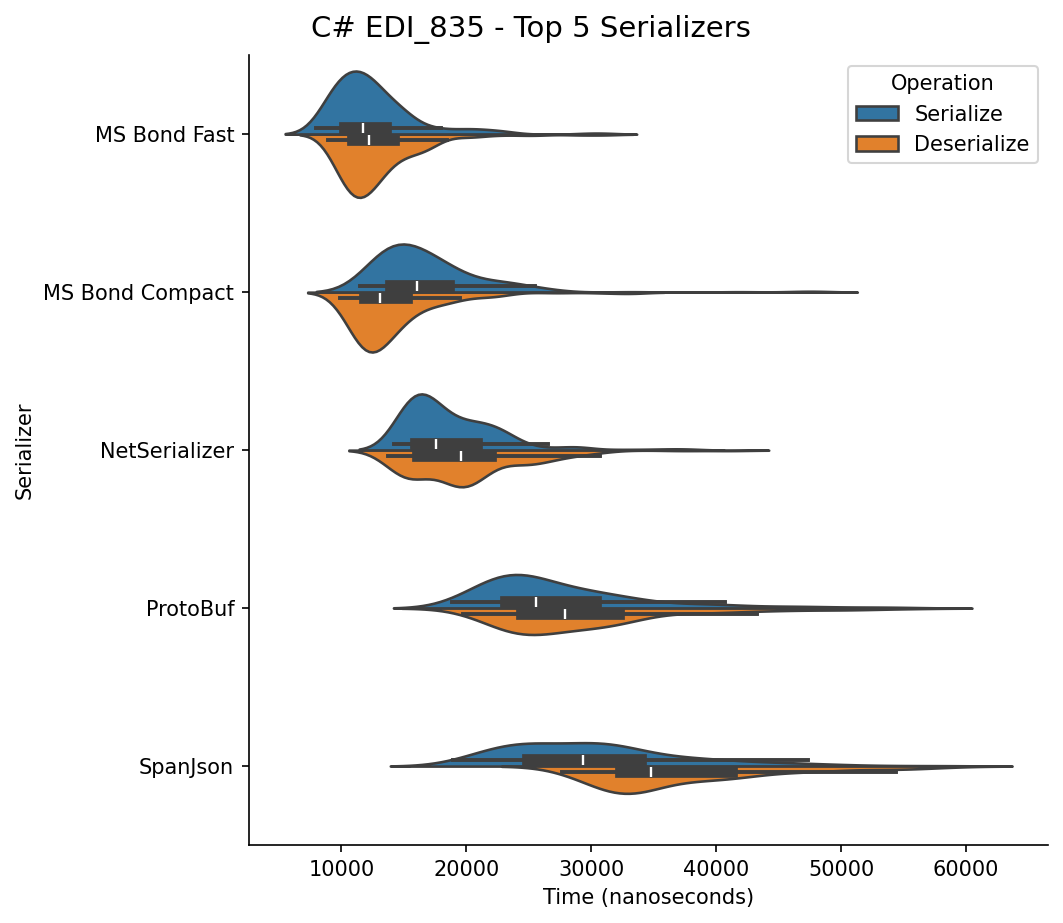
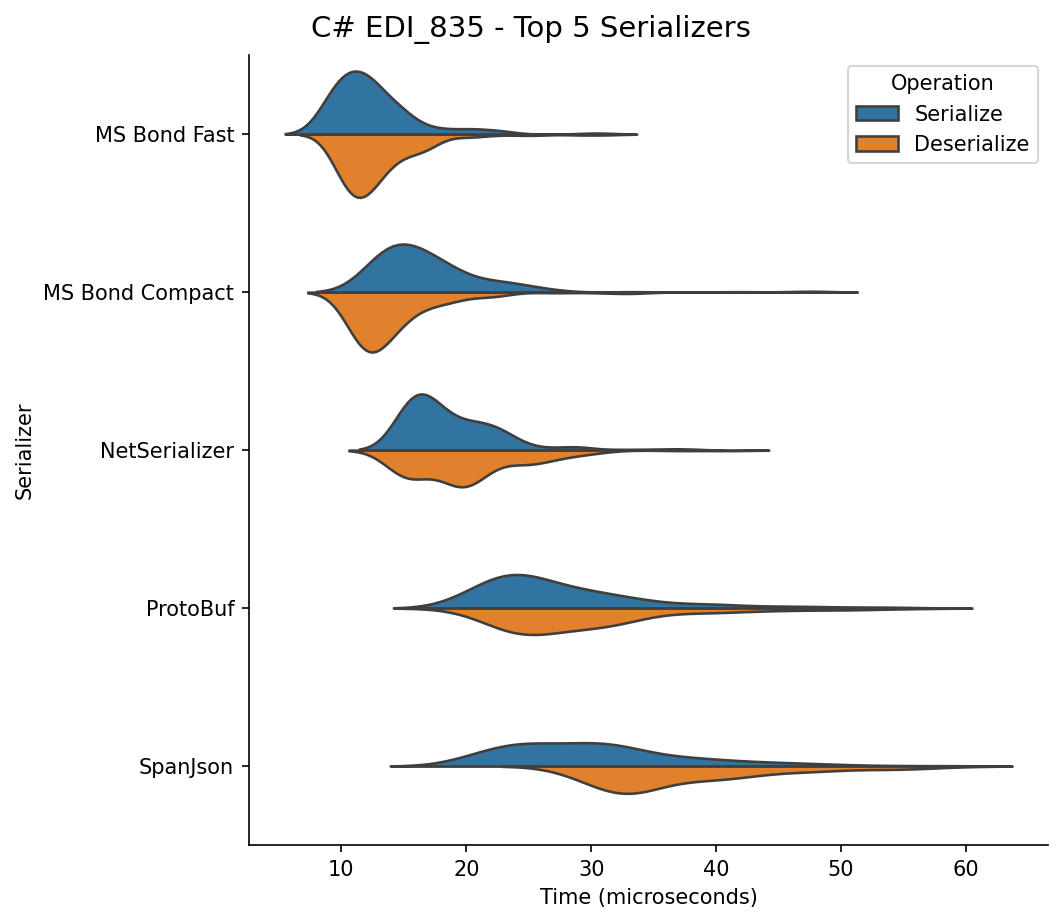
fixes

diff --git a/analysis/reports/dashboard/index.html b/analysis/reports/dashboard/index.html
@@ -144,7 +144,7 @@
     <div class="header">
         <h1>Serializer Benchmark Dashboard</h1>
         <p>Cross-language serialization performance comparison</p>
-        <p>Generated: 2026-04-27 21:21:57</p>
+        <p>Generated: 2026-04-28 09:51:52</p>
     </div>
 
     <div class="container">
@@ -1025,7 +1025,7 @@
     <div class="container">
         <div class="card">
             <h2>C# Distribution Analysis (Violin Plots)</h2>
-            <p style="margin-bottom:1rem;">Top 5 serializers by mean time for each data type. Split violins show serialize (left) vs deserialize (right) time distributions.</p>
+            <p style="margin-bottom:1rem;">Top 5 serializers by mean time for each data type. Split violins show serialize (top) vs deserialize (bottom) time distributions.</p>
             <div class="grid" style="grid-template-columns: repeat(auto-fit, minmax(600px, 1fr));">
                 <div class="card" style="padding: 1rem;">
                     <h4>EDI_835</h4>
@@ -1062,7 +1062,7 @@
     <div class="container">
         <div class="card">
             <h2>Python Distribution Analysis (Violin Plots)</h2>
-            <p style="margin-bottom:1rem;">Top 5 serializers by mean time for each data type. Split violins show serialize (left) vs deserialize (right) time distributions.</p>
+            <p style="margin-bottom:1rem;">Top 5 serializers by mean time for each data type. Split violins show serialize (top) vs deserialize (bottom) time distributions.</p>
             <div class="grid" style="grid-template-columns: repeat(auto-fit, minmax(600px, 1fr));">
                 <div class="card" style="padding: 1rem;">
                     <h4>EDI_835</h4>

diff --git a/analysis/src/benchmark_analysis/reports.py b/analysis/src/benchmark_analysis/reports.py
@@ -54,15 +54,19 @@ def _generate_violin_plot(melted_df: pd.DataFrame, data_type: str, output_dir: s
     if subset.empty:
         return None
 
-    # Convert time to nanoseconds consistently (C# ticks -> ns; Python already ns)
+    # Convert time to microseconds for display (C# ticks are 100ns, so ticks * 100 / 1000 = ticks / 10)
     sample_time = subset['Time_ns'].median()
     if sample_time > 1_000_000:
-        subset['Time_ns'] = subset['Time_ns'] * 100  # Ticks to ns
+        # C# ticks: convert to microseconds (ticks * 100ns / 1000 = ticks / 10)
+        subset['Time_us'] = subset['Time_ns'] / 10  # ticks to microseconds
+    else:
+        # Python nanoseconds: convert to microseconds
+        subset['Time_us'] = subset['Time_ns'] / 1000
 
     # Filter to top N serializers by mean time if requested
     if top_n:
-        # Calculate mean time per serializer
-        mean_times = subset.groupby('SerializerName')['Time_ns'].mean().sort_values()
+        # Calculate mean time per serializer (using Time_us)
+        mean_times = subset.groupby('SerializerName')['Time_us'].mean().sort_values()
         top_serializers = mean_times.head(top_n).index.tolist()
         subset = subset[subset['SerializerName'].isin(top_serializers)].copy()
 
@@ -70,20 +74,21 @@ def _generate_violin_plot(melted_df: pd.DataFrame, data_type: str, output_dir: s
     try:
         g = sns.catplot(
             data=subset,
-            x='Time_ns',
+            x='Time_us',
             y='SerializerName',
             hue='Operation',
             kind='violin',
             split=True,
+            inner=None,  # Remove box plot inner lines for cleaner violin appearance
             height=6,
             aspect=1.2,
             legend_out=False,
-            order=subset.groupby('SerializerName')['Time_ns'].mean().sort_values().index.tolist()
+            order=subset.groupby('SerializerName')['Time_us'].mean().sort_values().index.tolist()
         )
         lang_prefix = f"{language} " if language else ""
         g.fig.suptitle(f'{lang_prefix}{data_type} - Top {top_n or "All"} Serializers',
                        fontsize=14, y=1.02)
-        g.set_axis_labels('Time (nanoseconds)', 'Serializer')
+        g.set_axis_labels('Time (microseconds)', 'Serializer')
 
         lang_suffix = f"_{language.lower().replace('#', 'sharp')}" if language else ""
         img_path = os.path.join(output_dir,

diff --git a/c-sharp/src/Serializers/ServiceStackTypeSerializer.cs b/c-sharp/src/Serializers/ServiceStackTypeSerializer.cs
@@ -14,7 +14,7 @@ namespace GLD.SerializerBenchmark.Serializers
 
         public override string Name
         {
-            get { return "ServiceStack Type"; }
+            get { return "ServiceStack"; }
         }
 
         public override bool Supports(string testDataName)
